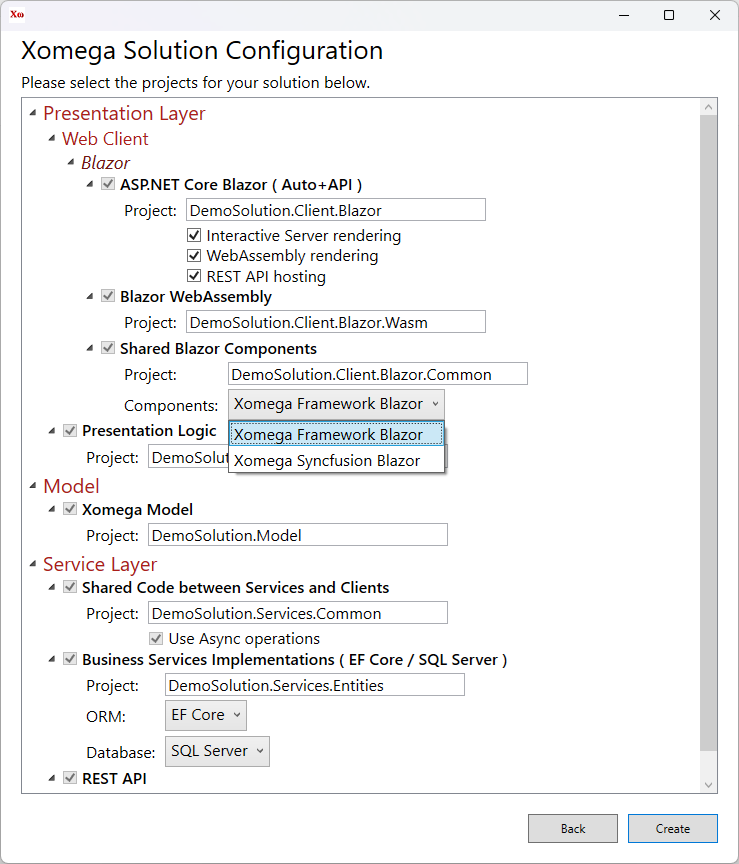
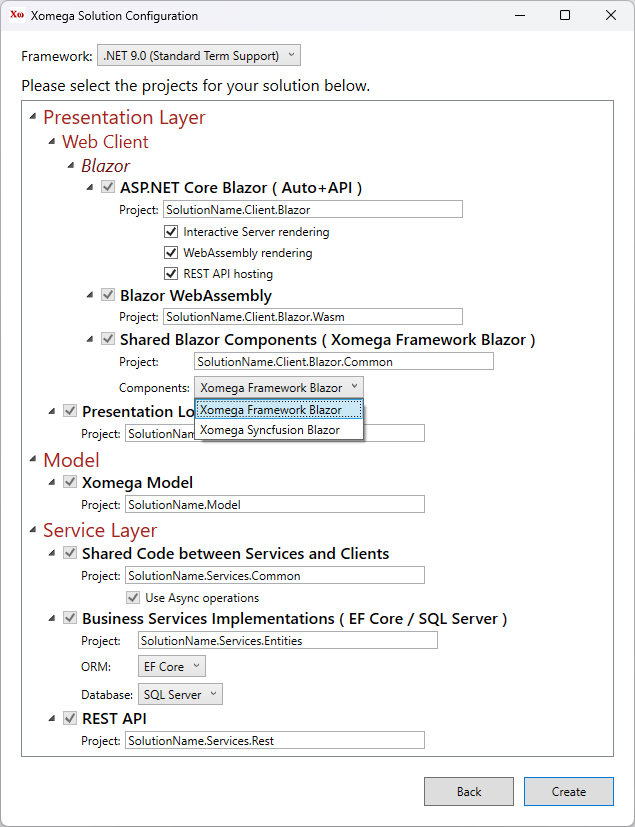
Updated docs for new version 9.12.4

diff --git a/docs/visual-studio/new-projects/solution-structure.md b/docs/visual-studio/new-projects/solution-structure.md
@@ -131,11 +131,24 @@ Standalone WebAssembly projects that are not hosted by the main Blazor app will 
 
 ### SolutionName.Client.Blazor
 
-This is the main Blazor project that contains ASP.NET Core startup and setup code for a Blazor Server client and hosted REST API, as appropriate. It  uses application views and components from the `.Client.Blazor.Common` project, and references the `.Client.Blazor.Wasm` WebAssembly project when the latter is hosted by this Blazor app.
+This is the main Blazor project that contains ASP.NET Core startup and setup code for a Blazor Server client and hosted REST API, as appropriate. It uses application views and components from the `.Client.Blazor.Common` project, and references the `.Client.Blazor.Wasm` WebAssembly project when the latter is hosted by this Blazor app.
+
+### SolutionName.Client.Maui
+
+This project contains the code for a MAUI desktop/mobile client for your application. The root folder contains the main program `MauiProgram` with DI-enabled application initialization code, `App.xaml` for the main application and the `MainPage.xaml` with the `BlazorWebView` that shows application views and components from the `.Client.Blazor.Common` project.
+
+The MAUI project also contains the following sub-folders.
+
+- **wwwroot** folder contains static Blazor resources, such as `index.html` for the `HostPage` of the `BlazorWebView`.
+- **Components** folder contains additional Blazor components specific to the MAUI project, such as `SignOut.razor`.
+- **Platforms** folder contains code and resources for each individual platform: `Android`, `iOS`, `MacCatalyst`, `Tizen` and `Windows`.
+- **Resources** folder contains resources that are shared between all platforms: `AppIcon`, `Fonts`, `Images`, `Raw` and `Splash`.
+
+
 
 ### SolutionName.Client.Wpf
 
-This project contains the code for a WPF desktop client for your application that targets .NET 8. The root folder contains the main application in the `App.xaml` files, the main window in the `MainView.xaml` files, and other application files in sub-folders, as follows.
+This project contains the code for a WPF desktop client for your application. The root folder contains the main application in the `App.xaml` files, the main window in the `MainView.xaml` files, and other application files in sub-folders, as follows.
 
 - **App_Start** folder contains DI-enabled application initialization code.
 - **Controls** folder contains common WPF controls that are used in the application views, e.g., for displaying errors.

diff --git a/docs/platform/releases/vs2022.md b/docs/platform/releases/vs2022.md
@@ -8,6 +8,33 @@ pagination_prev: null
 
 Below is a summary of the release notes for the *Xomega.Net for Visual Studio 2022* releases.
 
+## Version 9.12.4
+
+Release Date: 12/18/2024
+
+### New features
+
+- **Support for MAUI Blazor Hybrid.**
+  - Added MAUI Blazor Hybrid project selection to the [*Xomega Solution Wizard*](../../visual-studio/new-projects/new-solutions#selecting-solution-components).
+  - Added ability to create MAUI Blazor Hybrid projects with a REST API backend.
+  - Added ability to create 2-Tier MAUI Blazor Hybrid projects that connect to the database directly.
+
+- **Support for .NET 9 in addition to .NET 8.**
+  - Added framework selection for .NET version to the [solution wizard](../../visual-studio/new-projects/new-solutions#selecting-solution-components).
+  - Defaulted framework to .NET 9, if it's installed. Otherwise, framework is set to .NET 8.
+  - Based on the selected framework, project templates use target framework and the latest packages for `net9.0` or `net8.0` respectively.
+
+### Minor changes
+
+- Moved the title of the *Xomega Solution Wizard* to the window title for more room in the window.
+- Made *Xomega Solution Wizard* configuration fields use default (smaller) font size and cleaned up margins.
+- Refactored `LoginViewModel` and `TokenService` in projects using REST API based on the new [Xomega Framework 4.3.1](https://github.com/Xomega-Net/XomegaFramework/releases/tag/v4.3.1).
+- Updated versions of referenced NuGet packages to avoid packages with vulnerabilities.
+
+### Bug fixes
+
+- Fixed default JWT config in `appsettings.json` for the REST API to work around issues in .NET 9.
+
 ## Version 9.12.3
 
 Release Date: 09/26/2024

diff --git a/docs/visual-studio/new-projects/new-solutions.md b/docs/visual-studio/new-projects/new-solutions.md
@@ -28,7 +28,7 @@ Set the project name, enter the location folder to create the solution in, optio
 
 ## Selecting solution components
 
-You should see a *Xomega Solution Configuration* screen, which allows you to pick and configure client-side and server-side technologies and projects that you want to use in your solution.
+You should see a *Xomega Solution Configuration* screen, which allows you to set the target framework (.NET 9.0, if installed, or .NET 8.0), and then pick and configure client-side and server-side technologies and projects that you want to use in your solution.
 
 Usually, you just need to pick the main client-side technology, and any other projects that are required for your selection will be automatically included in the solution as well.
 
@@ -78,6 +78,12 @@ Below is the full list of parameters that you can configure for different soluti
   - *Project* - the name of the project to use.
 - **ASP.NET WebForms** - legacy ASP.NET web client.
   - *Project* - the name of the project to use.
+- **MAUI** - desktop/mobile client for MAUI applications.
+  - *Project* - the name of the project to use.
+  - *Blazor Hybrid* - use Blazor components for the MAUI app (currently the only option, so it's always on).
+  - *API Tier* - the way the app will access business services, as follows.
+    - `2-Tier App` - business services are built into the app, which will access the DB directly.
+    - `REST API` - business services are hosted separately and accessed via REST API.
 - **WPF** - desktop client for WPF applications.
   - *Project* - the name of the project to use.
   - *API Tier* - the way the app will access business services, as follows.

diff --git a/docs/visual-studio/new-projects/adding-to-solution.md b/docs/visual-studio/new-projects/adding-to-solution.md
@@ -7,7 +7,7 @@ sidebar_position: 3
 If you selected some projects when creating a new Xomega solution but then decided to include additional supported technologies, then you can use the same Xomega solution wizard to select and add new projects to your solution.
 
 :::warning
-The wizard will configure any new projects that you will add, but it **won't update any existing projects**, specifically the `.Model` project, like it would've had you selected those projects during the initial solution creation.
+The wizard will configure any new projects that you will add, but it **won't update any existing projects**, specifically the `.Model` project, like it would have, had you selected those projects during the initial solution creation.
 
 You will need to make any such updates to the existing projects manually.
 :::
